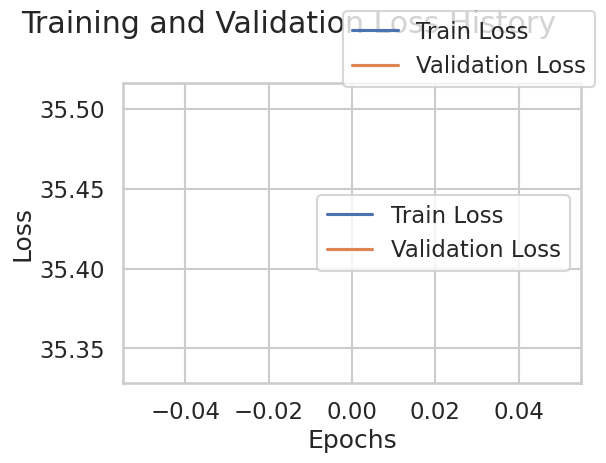
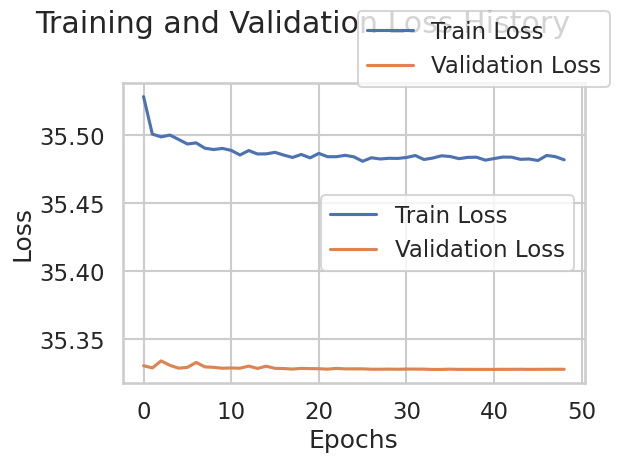
full graphs

Changed region(s): [[0.0297, 0.0, 0.9802, 0.9676], [0.6238, 0.4536, 0.8317, 0.4838]]

diff --git a/train_models.py b/train_models.py
@@ -781,7 +781,7 @@ class SimpleNeuralNetwork(BaseModel):
 
     @BaseModel.track_resources
     def train(
-        self, X_train, y_train, lr=1e-2, epochs=1, batch_size=256, validation_split=0.2
+        self, X_train, y_train, lr=1e-3, epochs=1, batch_size=256, validation_split=0.2
     ):
         """Train the simple neural network."""
         # Handle sparse matrix
